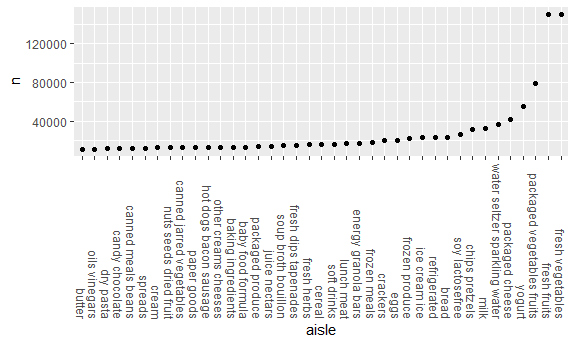
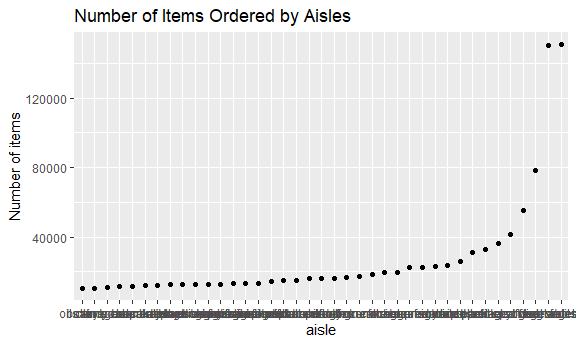
Final commit - all plots finished

diff --git a/p8105_hw3_heb2133.md b/p8105_hw3_heb2133.md
@@ -7,18 +7,20 @@ Hannah Briggs (heb2133)
 library(tidyverse)
 ```
 
-    ## -- Attaching packages ------------------------ tidyverse 1.3.0 --
+    ## -- Attaching packages ---------------------------------- tidyverse 1.3.0 --
 
     ## v ggplot2 3.3.2     v purrr   0.3.4
     ## v tibble  3.0.3     v dplyr   1.0.2
     ## v tidyr   1.1.2     v stringr 1.4.0
     ## v readr   1.3.1     v forcats 0.5.0
 
-    ## -- Conflicts --------------------------- tidyverse_conflicts() --
+    ## -- Conflicts ------------------------------------- tidyverse_conflicts() --
     ## x dplyr::filter() masks stats::filter()
     ## x dplyr::lag()    masks stats::lag()
 
 ``` r
+library(patchwork)
+
 knitr::opts_chunk$set(
   fig.width = 6, 
   fig.asp = 0.6,
@@ -84,10 +86,66 @@ instacart %>%
   ) %>% 
   ggplot(aes(x = aisle, y = n)) +
   geom_point() +
-  theme(axis.text.x = element_text(angle = 270, vjust = 0.5, hjust = 1))
+  labs(
+    title = "Number of Items Ordered by Aisles",
+    y = "Number of items",
+    capion = "Only shows aisles with over 1000 items ordered"
+  )
 ```
 
 <img src="p8105_hw3_heb2133_files/figure-gfm/unnamed-chunk-4-1.png" width="90%" />
+
+``` r
+  theme(
+    axis.text.x = element_text(angle = 270, vjust = 0.5, hjust = 1), 
+    plot.title = element_text(hjust = 0.5, size = 11),
+    axis.title = element_text(size = 10),
+  )
+```
+
+    ## List of 3
+    ##  $ axis.title :List of 11
+    ##   ..$ family       : NULL
+    ##   ..$ face         : NULL
+    ##   ..$ colour       : NULL
+    ##   ..$ size         : num 10
+    ##   ..$ hjust        : NULL
+    ##   ..$ vjust        : NULL
+    ##   ..$ angle        : NULL
+    ##   ..$ lineheight   : NULL
+    ##   ..$ margin       : NULL
+    ##   ..$ debug        : NULL
+    ##   ..$ inherit.blank: logi FALSE
+    ##   ..- attr(*, "class")= chr [1:2] "element_text" "element"
+    ##  $ axis.text.x:List of 11
+    ##   ..$ family       : NULL
+    ##   ..$ face         : NULL
+    ##   ..$ colour       : NULL
+    ##   ..$ size         : NULL
+    ##   ..$ hjust        : num 1
+    ##   ..$ vjust        : num 0.5
+    ##   ..$ angle        : num 270
+    ##   ..$ lineheight   : NULL
+    ##   ..$ margin       : NULL
+    ##   ..$ debug        : NULL
+    ##   ..$ inherit.blank: logi FALSE
+    ##   ..- attr(*, "class")= chr [1:2] "element_text" "element"
+    ##  $ plot.title :List of 11
+    ##   ..$ family       : NULL
+    ##   ..$ face         : NULL
+    ##   ..$ colour       : NULL
+    ##   ..$ size         : num 11
+    ##   ..$ hjust        : num 0.5
+    ##   ..$ vjust        : NULL
+    ##   ..$ angle        : NULL
+    ##   ..$ lineheight   : NULL
+    ##   ..$ margin       : NULL
+    ##   ..$ debug        : NULL
+    ##   ..$ inherit.blank: logi FALSE
+    ##   ..- attr(*, "class")= chr [1:2] "element_text" "element"
+    ##  - attr(*, "class")= chr [1:2] "theme" "gg"
+    ##  - attr(*, "complete")= logi FALSE
+    ##  - attr(*, "validate")= logi TRUE
 
 Table showing the three most popular items in each of the aisles “baking
 ingredients”, “dog food care”, and “packaged vegetables fruits”:
@@ -379,54 +437,11 @@ data("ny_noaa")
 Looking at missing data:
 
 ``` r
-ny_noaa %>% count(prcp = is.na(snow))
+colSums(is.na(ny_noaa))
 ```
 
-    ## # A tibble: 2 x 2
-    ##   prcp        n
-    ##   <lgl>   <int>
-    ## 1 FALSE 2213955
-    ## 2 TRUE   381221
-
-``` r
-ny_noaa %>% count(prcp = is.na(prcp))
-```
-
-    ## # A tibble: 2 x 2
-    ##   prcp        n
-    ##   <lgl>   <int>
-    ## 1 FALSE 2449338
-    ## 2 TRUE   145838
-
-``` r
-ny_noaa %>% count(snwd = is.na(snwd))
-```
-
-    ## # A tibble: 2 x 2
-    ##   snwd        n
-    ##   <lgl>   <int>
-    ## 1 FALSE 2003390
-    ## 2 TRUE   591786
-
-``` r
-ny_noaa %>% count(tmax = is.na(tmax)) 
-```
-
-    ## # A tibble: 2 x 2
-    ##   tmax        n
-    ##   <lgl>   <int>
-    ## 1 FALSE 1460818
-    ## 2 TRUE  1134358
-
-``` r
-ny_noaa %>% count(tmin = is.na(tmin))
-```
-
-    ## # A tibble: 2 x 2
-    ##   tmin        n
-    ##   <lgl>   <int>
-    ## 1 FALSE 1460756
-    ## 2 TRUE  1134420
+    ##      id    date    prcp    snow    snwd    tmax    tmin 
+    ##       0       0  145838  381221  591786 1134358 1134420
 
 This dataset is from the NOAA National Climatic Data Center, containing
 data from NY state weather stations from January 1981 to December 2010.
@@ -436,8 +451,8 @@ the max and min temperature. There are 747 distinct weather stations in
 this dataset.
 
 The dataset is missing data for key variables to a fair extent (number
-observations = na): - Snowfall (381,221) - Snowdepth (591,786) -
-Precipitation (145,838) - Tmin (1,134,420) - Tmax (1,460,756).
+observations = na): snowfall (381,221), snowdepth (591,786),
+precipitation (145,838), tmin (1,134,420), and tmax (1,460,756).
 
 Tidying NYC NOAA dataset:
 
@@ -496,7 +511,10 @@ ny_noaa_clean %>%
 
 The five most commonly observed values for snowfall are (obs =
 observations): 0 mm (2,008,508 obs), NA i.e., missing (381,221), 25 mm
-(31,022 obs), 13mm (23,095 obs), and 51mm (18,274 obs).
+(31,022 obs), 13mm (23,095 obs), and 51mm (18,274 obs). The most
+commonly observed value for snow is 0mm and this makes sense because
+this data is collected year round, and for most of the year, NY does not
+have snow.
 
 Plot average max temperature in January and July for each station across
 the years
@@ -532,46 +550,60 @@ ny_noaa_clean %>%
 
 <img src="p8105_hw3_heb2133_files/figure-gfm/unnamed-chunk-14-1.png" width="90%" />
 
+This pot demonstrates that on average the max temp is higher during the
+month of July. Over the years, the max temp during July looks relatively
+stabe. The max temp during January seems to be more varied across the
+years. There are some outliers in these graphs from reports from weather
+stations.
+
 Two-panel plot showing (i) tmax vs tmin for the full dataset; and (ii)
-the distribution of snowfall values \>0 and \<100 by year
+the distribution of snowfall values \>0 and \<100 by year.
+
+Making the temperature plot:
 
 ``` r
-library(patchwork)
-
-#Making tmin vs tmax plot i)
 temp_plot = 
   ny_noaa_clean %>% 
   na.omit(tmin, tmax) %>% 
-  ggplot(aes(x = tmin, y = tmax)) +
-  geom_bin2d() +
-  labs(
-    title = "Min versus Max Temp from NY Weather Stations",
-    x = "Min Temp (C)",
-    y = "Max Temp (C)"
-  ) +
-  theme(panel.spacing = unit(1.2, "lines"), 
-        plot.title = element_text(hjust = 0.5, size = 11),
-        axis.title = element_text(size = 10),
-        )
+  pivot_longer(
+    tmin:tmax, 
+    names_to = "tmin_vs_tmax",
+    values_to = "temperature"
+  ) %>% 
+  ggplot(aes(x = temperature, fill = tmin_vs_tmax)) +
+  geom_density(alpha = 0.4) +
+  labs(title = "Min versus Max Temp in NY",
+       x = "Temperature (C)") + 
+  theme(
+    plot.title = element_text(hjust = 0.5, size = 11),
+    axis.title = element_text(size = 10),
+    legend.title = element_text(size = 10)
+  )
+```
 
-#Making snowfall plot ii)
+Making snowfall plot:
+
+``` r
 snowfall_plot = 
   ny_noaa_clean %>% 
   filter(snow > 0, snow < 100) %>% 
-  ggplot(aes(x = year, y = snow, color = year)) + 
+  ggplot(aes(x = year, y = snow, color = year)) +
   geom_boxplot(aes(group = year)) +
   labs(
     title = "Reports of Snowfall from NY Weather Stations by Year",
-    y = "Snowfall (mm)",
-    x = "Year"
+    y = "Snowfall (mm)"
   ) + 
-  theme(plot.title = element_text(hjust = 0.5, size = 11),
-        axis.title = element_text(size = 10),
-        legend.position = "none",
-  )
+  theme(
+    plot.title = element_text(hjust = 0.5, size = 11),
+    axis.title = element_text(size = 10),
+    legend.position = "none"
+        )
+```
 
-#Patch the graphs
+Patching our temperature and snowfall plots together:
+
+``` r
 temp_plot / snowfall_plot
 ```
 
-<img src="p8105_hw3_heb2133_files/figure-gfm/unnamed-chunk-15-1.png" width="90%" />
+<img src="p8105_hw3_heb2133_files/figure-gfm/unnamed-chunk-17-1.png" width="90%" />
